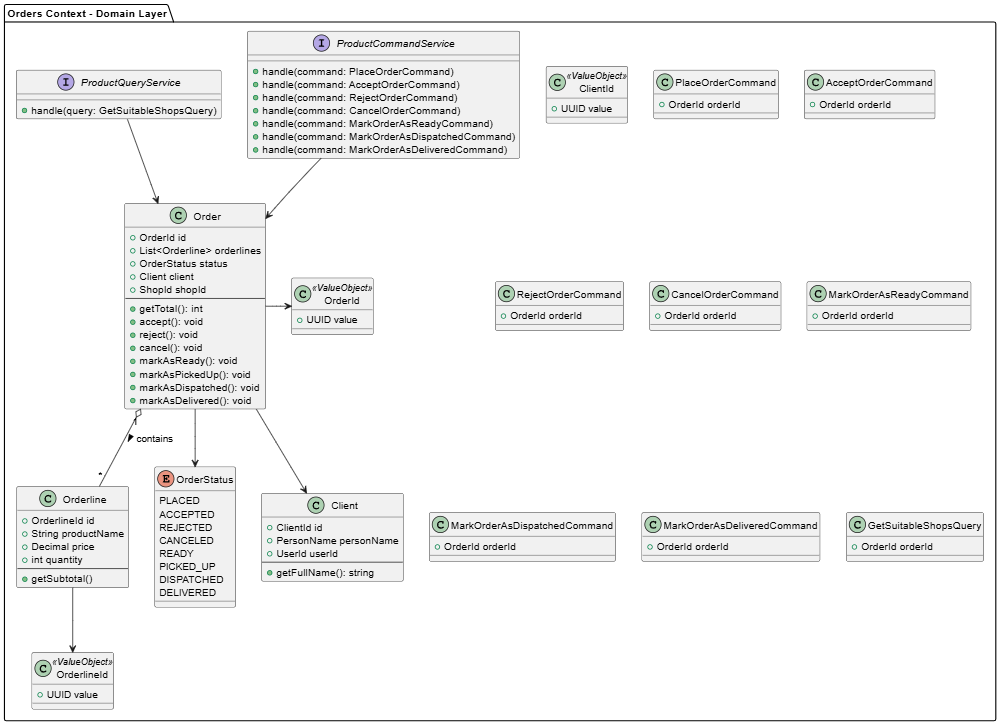
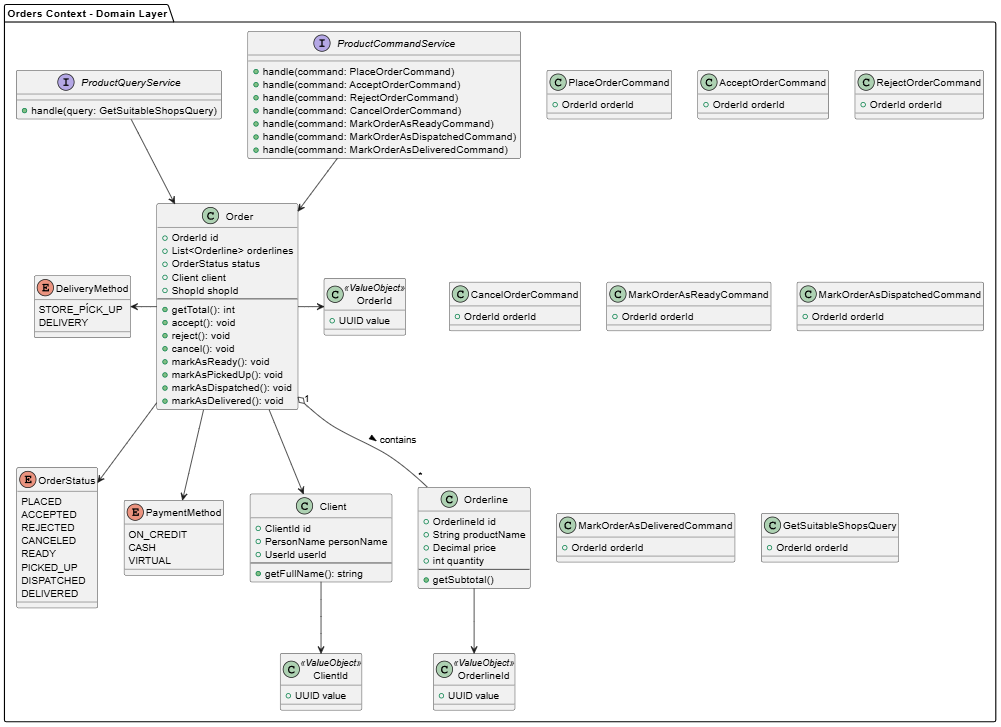
fix: add missing enums to class and db diagram

diff --git a/sections/capitulo_2/tactical_design/orders_context/domain_layer.md b/sections/capitulo_2/tactical_design/orders_context/domain_layer.md
@@ -5,6 +5,8 @@
 | `model/aggregates/Order.java`                     | Agregado raíz de orders                              | Aggregate       |
 | `model/entities/Orderline.java`                   | Entidad snapshot de un producto al momento de compra | Entity          |
 | `model/valueobjects/OrderStatus.java`             | Enum que registra los estados de una orden           | Value object    |
+| `model/valueobjects/PaymentMethod.java`           | Enum que registra el método de pago para la orden    | Value object    |
+| `model/valueobjects/DeliveryMethod.java`          | Enum que registra la forma de recojo de la orden     | Value object    |
 | `model/valueobjects/OrderId.java`                 | Identificador de la orden                            | Value object    |
 | `model/valueobjects/OrderlineId.java`             | Identificador de la linea de orden                   | Value object    |
 | `model/commands/GetSuitableShopsQuery.java`       | Record para consultar las tiendas idóneas            | Query           |
